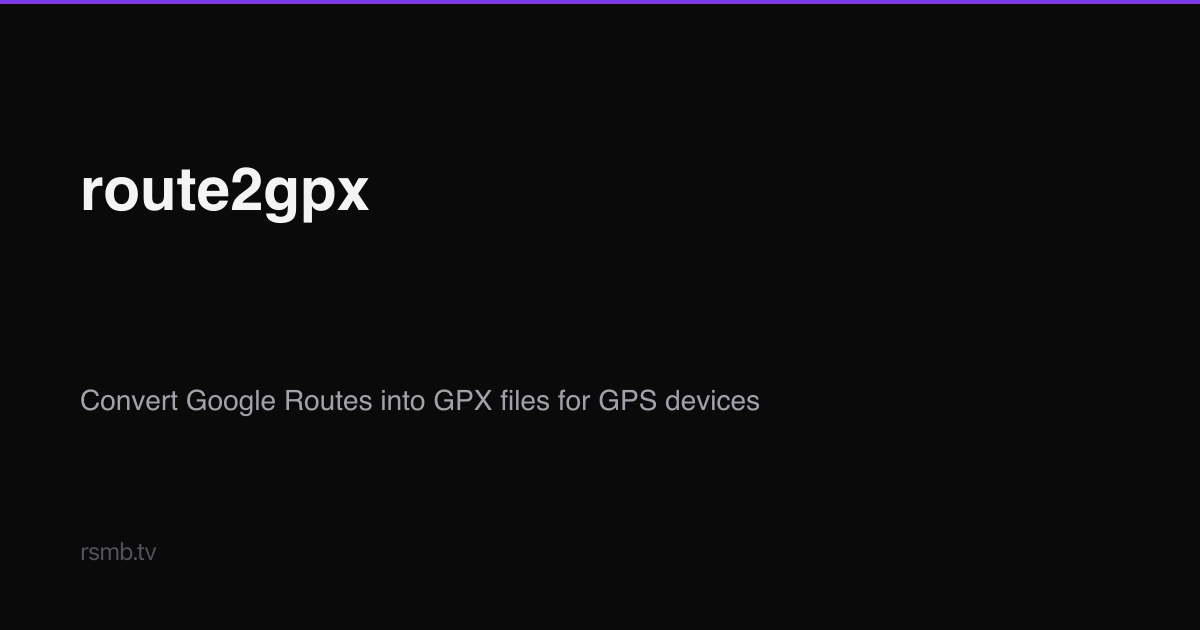
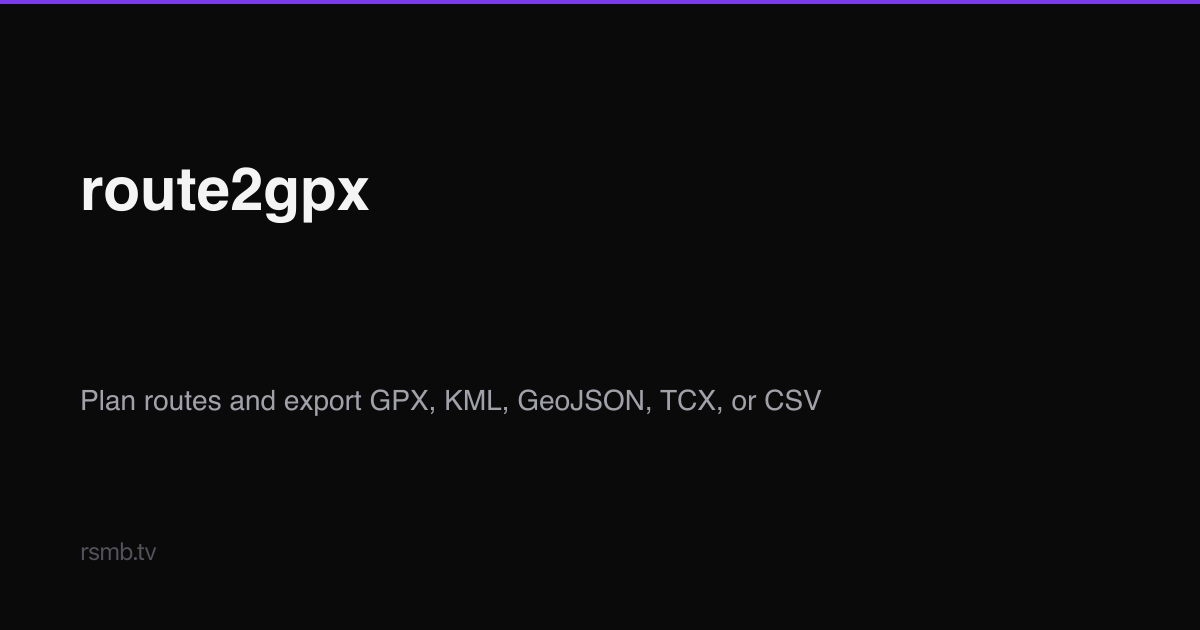
Refresh Route2GPX project page for multi-format exports
Describe current routing and local GPS imports, five output formats, TCX time requirements, and actual external data requests. Add November feature notes and current web/CLI versions.

Replace legacy screenshots with current example-track captures and refresh responsive project previews and social cards. Verify content, image loading, and small-screen layout.

Changed region(s): [[0.0617, 0.6032, 0.6783, 0.6635]]

diff --git a/src/pages/Route2Gpx.tsx b/src/pages/Route2Gpx.tsx
@@ -9,53 +9,44 @@ const ROUTE2GPX_URL = 'https://route2gpx.rsmb.tv';
 
 const screenshots: ProjectScreenshot[] = [
     {
-        src: '/images/route2gpx/route-planning.webp',
-        alt: 'Route to GPX interface showing origin and destination inputs, waypoints, and route mode options',
-        caption: 'Route planning interface - enter origin, destination, waypoints, and travel mode',
-        width: 1811,
-        height: 1390,
+        src: '/images/route2gpx/route-planning-v1-1.webp',
+        alt: 'Route planner with a Seattle waterfront example track, location fields, route controls, and a Leaflet map',
+        caption: 'Import a GPS track without a Google key, or plan a route with your own key. The map shows an example waterfront track.',
+        width: 1440,
+        height: 1000,
         loading: 'eager',
     },
     {
-        src: '/images/route2gpx/single-route.webp',
-        alt: 'Single driving route from Mexico City to Teotihuacan displayed on a Leaflet map with Fog of World overlay',
-        caption: 'Single route view - driving route with Fog of World overlay and GPX download',
-        width: 1818,
-        height: 1392,
+        src: '/images/route2gpx/download-formats-v1-1.webp',
+        alt: 'Download popup with GPX, KML, GeoJSON, TCX, and CSV choices and a filename preview',
+        caption: 'Select a format, check the filename, and download. Track data and optional time generation are available in the same popup.',
+        width: 1440,
+        height: 1000,
     },
     {
-        src: '/images/route2gpx/multi-route.webp',
-        alt: 'Multiple routes across Mexico shown simultaneously with color-coded paths and a route list panel',
-        caption: 'Multi-route view - multiple routes across Mexico with batch download',
-        width: 1814,
-        height: 1390,
+        src: '/images/route2gpx/multi-route-v1-1.webp',
+        alt: 'Three example tracks around Seattle shown with different colors and separate route controls',
+        caption: 'Compare tracks on one map. Rename, hide, or export a track, or download all tracks as a GPX ZIP.',
+        width: 1440,
+        height: 1000,
     },
 ];
 
 export default function Route2Gpx() {
     usePageMetadata(staticPageMetadata('/projects/route2gpx'));
-
     const project = projects.find(p => p.slug === 'route2gpx')!;
 
     return (
         <div className="max-w-[52rem]">
             <ProjectPageHeader
                 title="route2gpx"
-                stack="JavaScript + Leaflet"
+                stack="JavaScript + Leaflet · Python CLI"
                 description={(
                     <>
-                        Convert{' '}
-                        <a
-                            href="https://developers.google.com/maps/documentation/routes"
-                            target="_blank"
-                            rel="noopener noreferrer"
-                            className="text-violet-400 underline decoration-violet-400/30 hover:decoration-violet-400"
-                        >
-                            Google Routes
-                        </a>{' '}
-                        into GPX files for GPS devices and bike computers. A
-                        privacy-focused web app that runs entirely in your browser -
-                        your routes never touch a server.
+                        Plan routes or import GPS tracks, then download GPX, KML,
+                        GeoJSON, TCX, or CSV. Inspect the full track on a map and
+                        check its elevation and time coverage before export.
+                        File imports and conversion run locally in your browser.
                     </>
                 )}
                 actions={[
@@ -68,33 +59,60 @@ export default function Route2Gpx() {
 
             <h2 className="text-lg font-medium text-zinc-100 mb-3">Features</h2>
             <ul className="space-y-1.5 text-zinc-400 text-sm mb-6 list-disc list-inside">
-                <li>Paste a Google Maps route URL and get a downloadable GPX file</li>
-                <li>Preview the route on an interactive Leaflet map before downloading</li>
-                <li>Supports driving, cycling, and walking routes</li>
-                <li>Entirely client-side — no data leaves your browser</li>
-                <li>Works with Garmin, Wahoo, and other GPX-compatible devices</li>
+                <li>Import GPX, KML, FIT, TCX, and GeoJSON, including gzip-compressed files and multiple files at once.</li>
+                <li>Plan driving, cycling, walking, or transit routes with your own Google Routes API key.</li>
+                <li>Add waypoints, reverse endpoints, reuse saved routes, and keep planner points visible on the map.</li>
+                <li>Keep segment breaks, known elevations, and recorded times where the selected format supports them.</li>
+                <li>Choose GPX, KML, GeoJSON, TCX, or CSV in a keyboard-accessible download popup.</li>
+                <li>Compare tracks with separate colors and visibility controls. Download multiple routes as a GPX ZIP.</li>
+                <li>Display a Fog of World ZIP as a separate map overlay.</li>
+            </ul>
+
+            <h2 className="text-lg font-medium text-zinc-100 mb-3">Choose an Output</h2>
+            <ul className="space-y-1.5 text-zinc-400 text-sm mb-6 list-disc list-inside">
+                <li><strong className="text-zinc-200">GPX:</strong> GPS devices, outdoor apps, and full track backups.</li>
+                <li><strong className="text-zinc-200">KML:</strong> Google Earth and map sharing. Point times are omitted.</li>
+                <li><strong className="text-zinc-200">GeoJSON:</strong> GIS and web maps. Recorded times use coordTimes properties; support varies by app.</li>
+                <li><strong className="text-zinc-200">TCX:</strong> Fitness courses. Every point needs a time. Missing times require an explicit choice to generate estimates.</li>
+                <li><strong className="text-zinc-200">CSV:</strong> Spreadsheet rows with segment and point numbers, coordinates, elevation in meters, and recorded time. CSV is export-only.</li>
             </ul>
 
             <h2 className="text-lg font-medium text-zinc-100 mb-3">How It Works</h2>
+            <p className="text-zinc-400 text-sm mb-4 leading-relaxed">
+                Enter an origin and destination to calculate a route with the{' '}
+                <a
+                    href="https://developers.google.com/maps/documentation/routes"
+                    target="_blank"
+                    rel="noopener noreferrer"
+                    className="text-violet-400 underline decoration-violet-400/30 hover:decoration-violet-400"
+                >
+                    Google Routes API
+                </a>
+                , or import an existing GPS file without a Google key. Check the
+                map, open the download popup, and select an output format.
+                Formats with timestamp support keep recorded times by default. Optional time generation
+                replaces them with estimates and resets to off for each download.
+            </p>
             <p className="text-zinc-400 text-sm mb-6 leading-relaxed">
-                The app extracts route data from Google Maps URLs, decodes the
-                polyline geometry, and converts it into standard GPX format with
-                waypoints and track segments. Everything happens in-browser
-                using the Google Routes API with your own API key.
+                Imports, file conversion, and saved routes stay in your browser.
+                Route calculation and optional place-name lookups send locations
+                and your key to Google. Map tiles come from CARTO. Optional
+                elevation lookup sends sample coordinates to Open Topo Data
+                through the site&apos;s proxy.
+            </p>
+            <p className="text-zinc-400 text-sm mb-6 leading-relaxed">
+                Current versions: web app 1.1.0 and Python CLI 0.2.0. The CLI
+                calculates Google routes and writes GPX files. The five-format
+                download popup is available in the web app.
             </p>
 
             <h2 className="text-lg font-medium text-zinc-100 mb-3">Tech Stack</h2>
             <div className="flex flex-wrap gap-2 mb-8">
-                {['JavaScript', 'Leaflet', 'Google Routes API', 'GPX'].map(
-                    (t) => (
-                        <span
-                            key={t}
-                            className="px-2 py-0.5 text-xs rounded-full bg-zinc-800 text-zinc-400"
-                        >
-                            {t}
-                        </span>
-                    ),
-                )}
+                {['JavaScript', 'Leaflet', 'Google Routes API', 'Python', 'GPX', 'KML', 'GeoJSON', 'TCX', 'CSV'].map(t => (
+                    <span key={t} className="px-2 py-0.5 text-xs rounded-full bg-zinc-800 text-zinc-400">
+                        {t}
+                    </span>
+                ))}
             </div>
             <ProjectChangelog entries={project.changelog ?? []} />
         </div>

diff --git a/src/content/projects.ts b/src/content/projects.ts
@@ -315,15 +315,24 @@ export const projects: Project[] = [
   {
     slug: 'route2gpx',
     title: 'route2gpx',
-    description: 'Convert Google Routes into GPX files for GPS devices and bike computers. A privacy-focused web app that runs entirely in your browser—your routes never touch a server.',
-    tech: ['JavaScript', 'Leaflet', 'Google Routes API'],
+    description: 'Plan routes or import GPS tracks, then export GPX, KML, GeoJSON, TCX, or CSV. File imports and conversion run locally in your browser.',
+    tech: ['JavaScript', 'Leaflet', 'Google Routes API', 'Python'],
     applicationCategory: 'TravelApplication',
     demoUrl: 'https://route2gpx.rsmb.tv',
     sourceUrl: 'https://github.com/robert-bryson/route2gpx',
-    previewImage: '/images/route2gpx/route-planning.webp',
+    previewImage: '/images/route2gpx/route-planning-v1-1.webp',
     year: 2024,
-    lastUpdated: '2026-04-07',
+    lastUpdated: '2026-11-03',
     changelog: [
+      {
+        date: '2026-11',
+        notes: [
+          'Choose GPX, KML, GeoJSON, TCX, or CSV from one download popup, with filename previews and track-data details',
+          'Export TCX courses with an explicit choice to generate estimated times when recorded times are incomplete',
+          'Export CSV rows with segment numbers, coordinates, elevations, and recorded times for spreadsheet analysis',
+          'Reuse saved routes in the planner and keep named, numbered planner points on the map',
+        ],
+      },
       {
         date: '2026-04',
         notes: [

diff --git a/tests/e2e/projects.spec.ts b/tests/e2e/projects.spec.ts
@@ -60,3 +60,23 @@ for (const width of [320, 1280]) {
         expect(await page.evaluate(() => document.documentElement.scrollWidth)).toBeLessThanOrEqual(width);
     });
 }
+
+for (const width of [320, 1280]) {
+    test(`Route2GPX page shows current formats and screenshots at ${width}px`, async ({ page }) => {
+        await page.setViewportSize({ width, height: 900 });
+        await page.goto('/projects/route2gpx');
+        await expect(page.getByRole('heading', { level: 1, name: 'route2gpx', exact: true })).toBeVisible();
+        await expect(page.locator('meta[name="description"]')).toHaveAttribute('content', /GPX, KML, GeoJSON, TCX, or CSV/);
+        await expect(page.getByRole('heading', { name: 'Choose an Output', exact: true })).toBeVisible();
+        await expect(page.getByText(/web app 1\.1\.0 and Python CLI 0\.2\.0/)).toBeVisible();
+        await expect(page.getByText('Nov 2026', { exact: true })).toHaveAttribute('datetime', '2026-11');
+        const screenshots = page.locator('figure img');
+        await expect(screenshots).toHaveCount(3);
+        for (const image of await screenshots.all()) {
+            await image.scrollIntoViewIfNeeded();
+            await expect(image).toHaveAttribute('src', /\/images\/route2gpx\/.+-v1-1\.webp$/);
+            await expect.poll(() => image.evaluate(element => (element as HTMLImageElement).naturalWidth)).toBe(1440);
+        }
+        expect(await page.evaluate(() => document.documentElement.scrollWidth)).toBeLessThanOrEqual(width);
+    });
+}

diff --git a/src/test/projectPages.test.tsx b/src/test/projectPages.test.tsx
@@ -88,6 +88,11 @@ describe('Route2Gpx page', () => {
         expect(screen.getByRole('heading', { level: 1, name: /route2gpx/i })).toBeInTheDocument();
         expect(screen.getByRole('link', { name: /Open route2gpx/i })).toHaveAttribute('href', 'https://route2gpx.rsmb.tv');
         expect(screen.getByRole('link', { name: /Source on GitHub/i })).toHaveAttribute('href', 'https://github.com/robert-bryson/route2gpx');
+        expect(screen.getByRole('img', { name: /download popup with GPX, KML, GeoJSON, TCX, and CSV/i })).toHaveAttribute('src', '/images/route2gpx/download-formats-v1-1.webp');
+        expect(screen.getByText(/web app 1\.1\.0 and Python CLI 0\.2\.0/i)).toBeInTheDocument();
+        expect(screen.getByText(/optional place-name lookups send locations/i)).toBeInTheDocument();
+        expect(screen.queryByText(/no data leaves your browser|your routes never touch a server|paste a Google Maps route URL/i)).not.toBeInTheDocument();
+        expect(screen.getByText('Nov 2026')).toHaveAttribute('datetime', '2026-11');
     });
 });
 

diff --git a/scripts/generate-og-images.js b/scripts/generate-og-images.js
@@ -32,7 +32,7 @@ export const DEFAULT_PAGES = [
     { slug: 'temperature-records', title: 'U.S. Temperature Records', subtitle: 'Explore recent record events, county extremes, and standing record ages' },
     { slug: 'tornado-tracks', title: 'Tornado Tracks', subtitle: 'Historical tornado track map with timeline playback and EF-scale filters' },
     { slug: 'climate-trends', title: 'Standing Record Ages', subtitle: 'When were today’s county temperature extremes set?' },
-    { slug: 'route2gpx', title: 'route2gpx', subtitle: 'Convert Google Routes into GPX files for GPS devices' },
+    { slug: 'route2gpx', title: 'route2gpx', subtitle: 'Plan routes and export GPX, KML, GeoJSON, TCX, or CSV' },
     { slug: 'status-dashboard', title: 'Status Dashboard', subtitle: 'Live terminal monitoring for AWS infrastructure, GitHub CI, and site health' },
 ];
 
